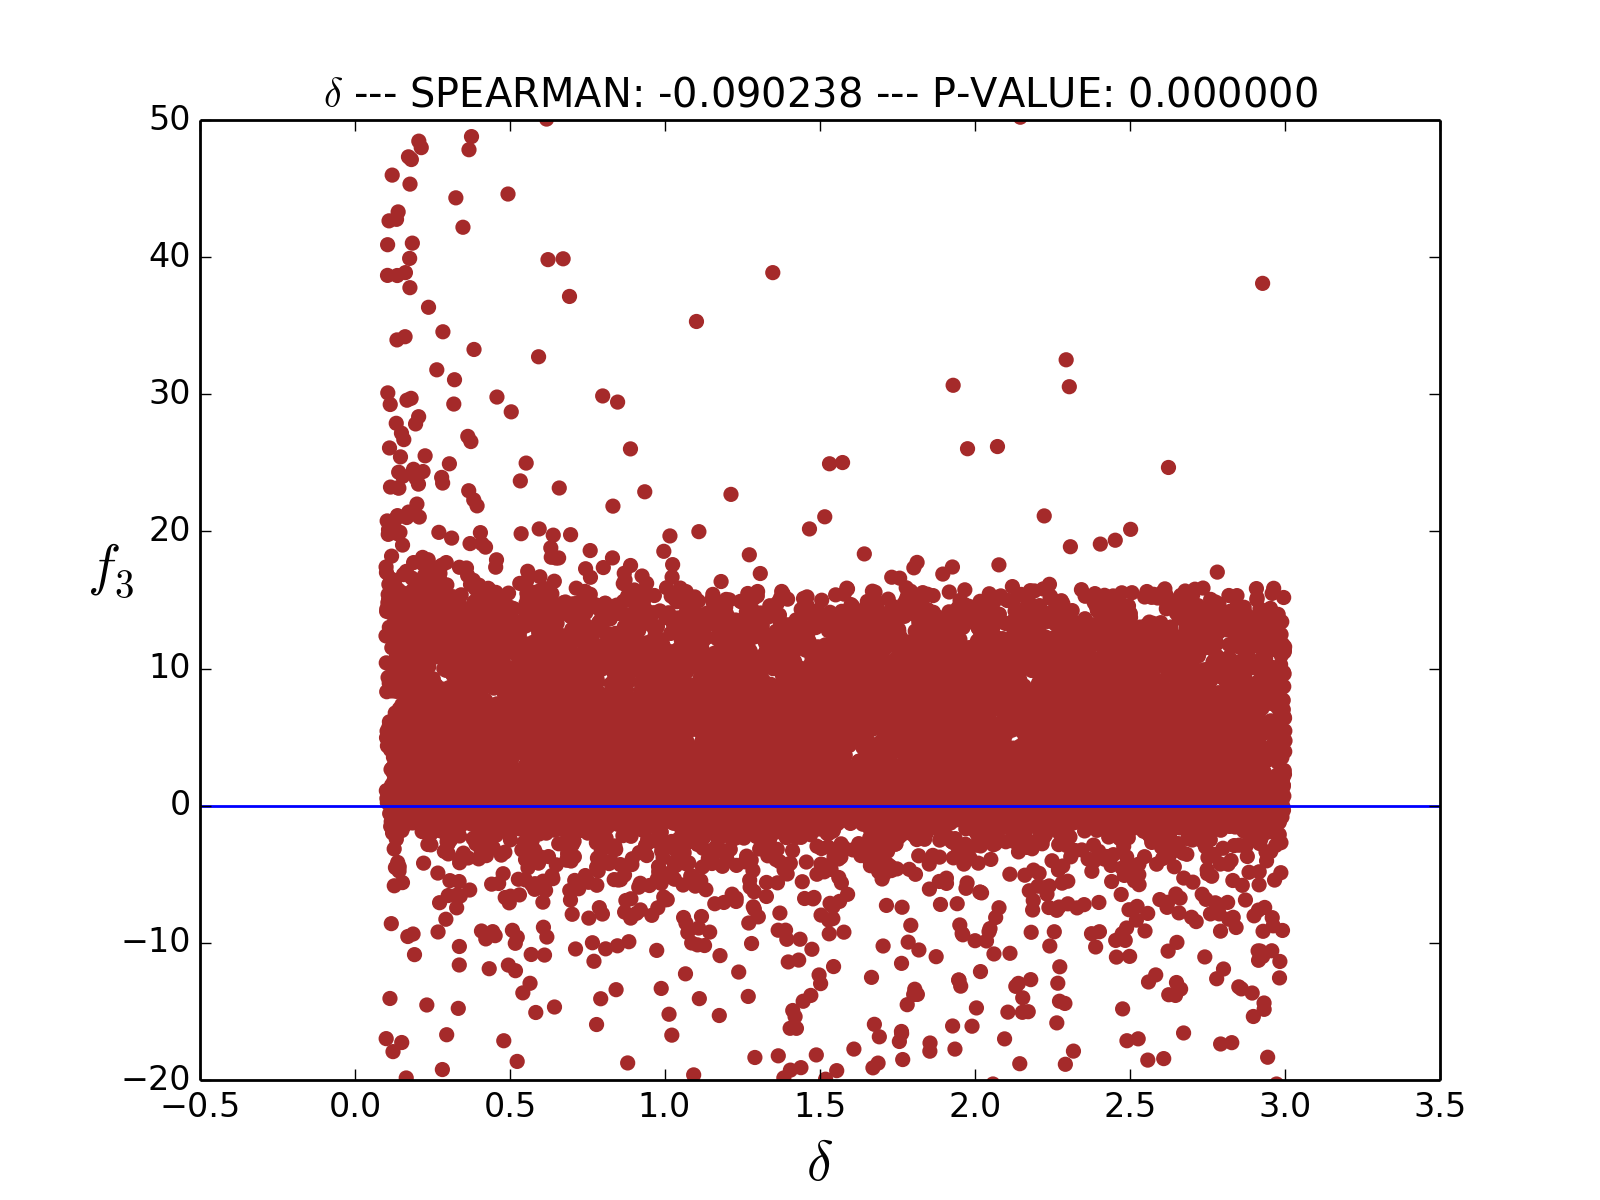
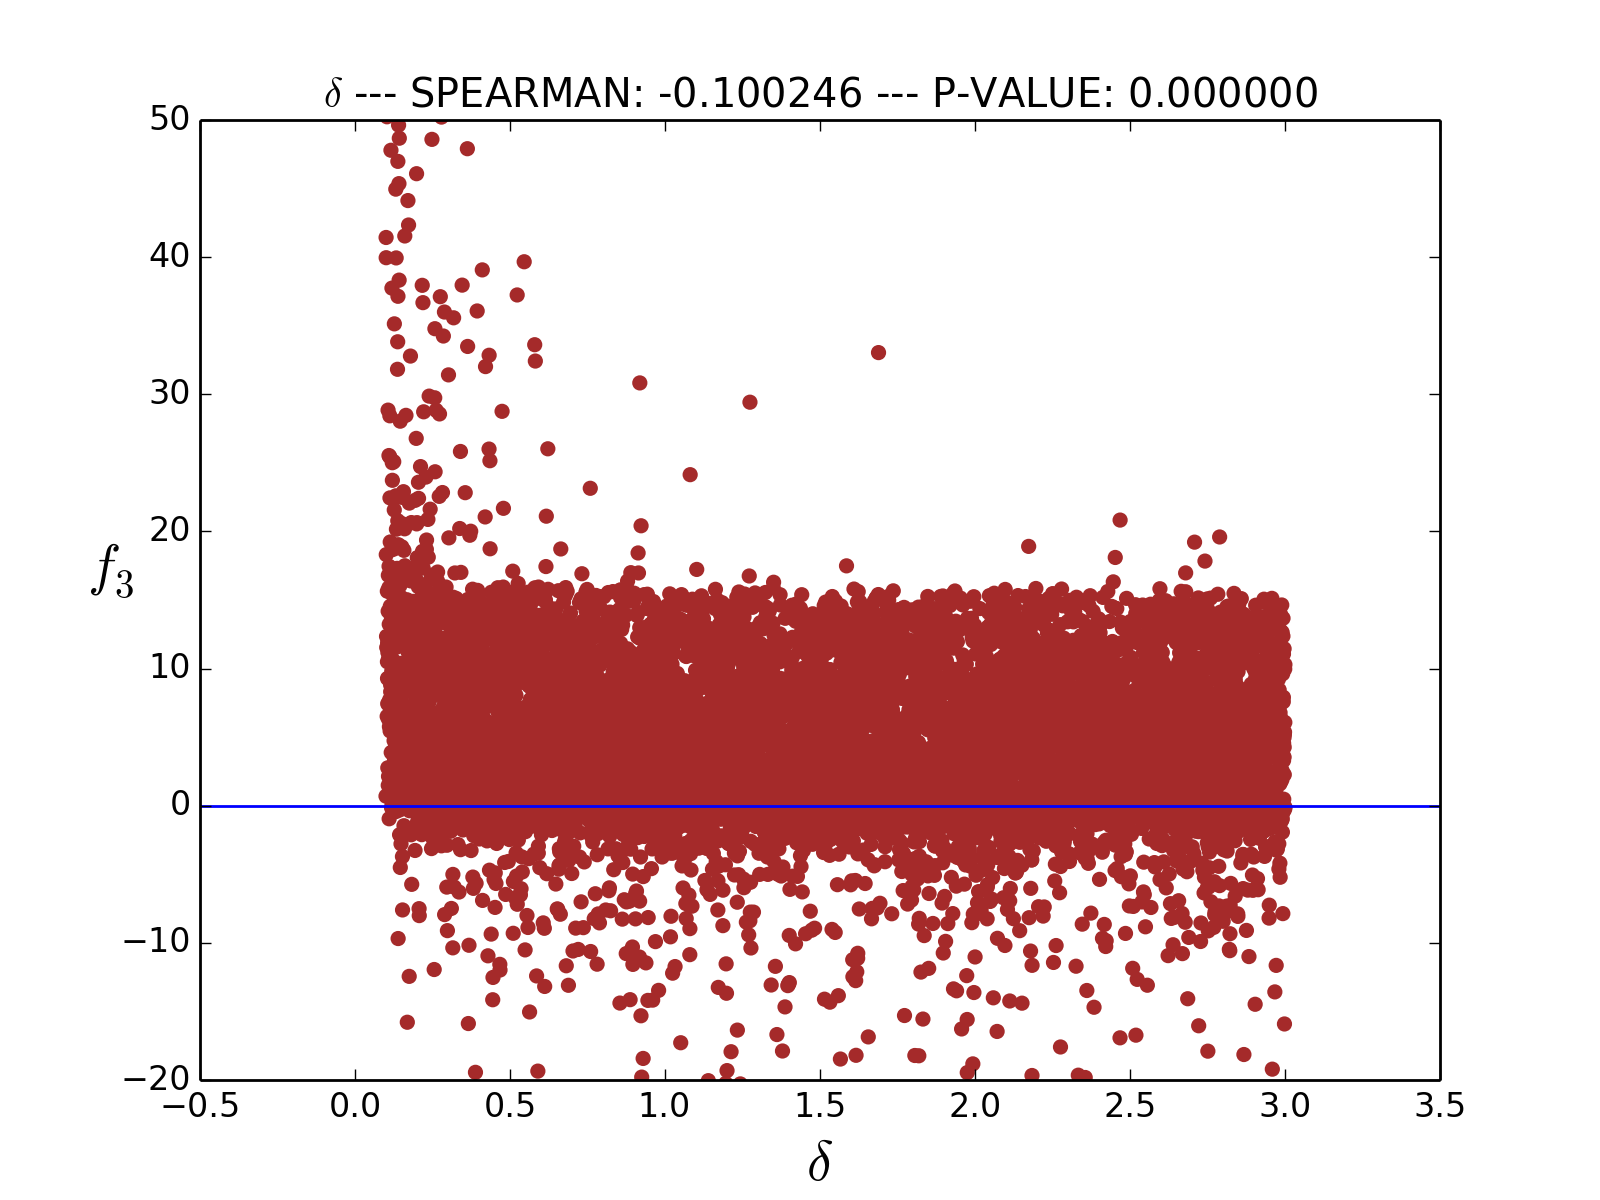
Added more contour plots, deleted old ones, reran the Hypercube Sampling for model 3 (to send them to the LaTeX folder)

diff --git a/contour_plots/variable_capacity_1x1_contour_plot.py b/contour_plots/variable_capacity_1x1_contour_plot.py
@@ -13,16 +13,29 @@ import argparse
 
 DATE_TIME_DIRECTORY_FORMAT = '%y%m%d_%H%M%S'
 LaTeX_VARIABLE_FORMAT = {
-    "sigma": "\\sigma",
-    "d": "d",
-    "beta": "\\beta",
-    "kappa": "\\kappa",
-    "e": "e",
-    "tau": "\\tau",
-    "alpha": "\\alpha",
-    "r": "r",
-    "delta": "\\delta",
-    "ratio": "\\sigma_G/\\beta_G"
+    "sigma": r"$\sigma$",
+    "d": r"$d$",
+    "beta": r"$\beta$",
+    "kappa": r"$\kappa$",
+    "e": r"$e$",
+    "tau": r"$\tau$",
+    "alpha": r"$\alpha$",
+    "r": r"$r$",
+    "delta": r"$\delta$",
+    "ratio": r"\sigma_G/\beta_G"
+}
+
+LaTeX_VERTICAL_FORMAT = {
+    "sigma": r"$\sigma$",
+    "d": r"$d$",
+    "beta": r"$\beta$",
+    "kappa": r"$\kappa$",
+    "e": r"$e$",
+    "tau": r"$\tau$",
+    "alpha": r"$\alpha$",
+    "r": r"$r$",
+    "delta": r"$\delta$",
+    "ratio": r"$\frac{\sigma_G}{\beta_G}$"
 }
 
 
@@ -70,15 +83,20 @@ def make_title(data):
     Title = ""
     for key, value in data.iteritems():
         if type(value) == float:
-            Title += r"$%s = %.3f$, " % (LaTeX_VARIABLE_FORMAT[str(key)], value)
+            Title += LaTeX_VERTICAL_FORMAT[str(key)] + "= %.3f" % value
     return Title
 
 
 def PARSE_ARGS():
     parser = argparse.ArgumentParser()
-    parser.add_argument("-c", dest="contour_line_delta", type=float, default=0.5)
-    parser.add_argument("-r", dest="contour_range", type=float, nargs=2, default=[-1., 1.])
-    parser.add_argument("-p", dest="print_parameters", action="store_true", default=False)
+    parser.add_argument("-c", dest="contour_line_delta", type=float, default=0.5, help="""
+Difference in contours when used without any flags or with the -r option.""")
+    parser.add_argument("-r", dest="contour_range", type=float, nargs=2, default=[-1., 1.], help="""
+Two arguments: first is the lowest contour, second is the greatest.""")
+    parser.add_argument("-p", dest="print_parameters", action="store_true", default=False, help="""
+Print the parameters in the title""")
+    parser.add_argument("-e", "--explicit-contours", dest="explicit", type=float, nargs="+", help="""
+Pass in explicit contours for the plot rather than defaulting to evenly-spaced.""")
     return parser.parse_args()
 
 
@@ -127,8 +145,8 @@ def main():
             os.system("mkdir %s" % direc)
 
         plt.figure()
-        plt.xlabel(r"$%s$" % str(LaTeX_VARIABLE_FORMAT[x_var]), fontsize=15, rotation=0)
-        plt.ylabel(r"$%s$" % str(LaTeX_VARIABLE_FORMAT[y_var]), fontsize=15, rotation=0)
+        plt.xlabel(LaTeX_VARIABLE_FORMAT[x_var], fontsize=15, rotation=0)
+        plt.ylabel(LaTeX_VERTICAL_FORMAT[y_var], fontsize=15, rotation=0)
         try:
             l = len(Z[type_])
             warning = False
@@ -136,12 +154,17 @@ def main():
             warning = True
             constant_value = float(Z[type_])
             Z[type_] = np.asarray([[float(Z[type_])]*mesh_refinement]*mesh_refinement)
-        CS = plt.contour(X, Y, Z[type_], np.arange(min(args.contour_range), max(args.contour_range), args.contour_line_delta), cmap=cm.RdBu)
+        if args.explicit:
+            CS = plt.contour(X, Y, Z[type_], args.explicit, colors="k")
+        else:
+            CS = plt.contour(X, Y, Z[type_], np.arange(min(args.contour_range), max(args.contour_range), args.contour_line_delta), colors="k")
         plt.clabel(CS, inline=1, fontsize=10)
+
+        plt.title(r"$f_3$" + ": Model 3 Coexistence Local Stability Criterion")
 
         if args.print_parameters:
             Title = make_title(data)
-            plt.title(Title, fontsize=15)
+            plt.title(Title, fontsize=12)
 
         file_name = "%s_%s_%s.png" % (x_var, y_var, date_time_stamp)
         file_path = os.path.join(plots, type_, "variable_capacity", file_name)

diff --git a/contour_plots/variable_growth_1x1_contour_plot.py b/contour_plots/variable_growth_1x1_contour_plot.py
@@ -25,6 +25,19 @@ LaTeX_VARIABLE_FORMAT = {
     "ratio": "\\sigma_G/\\beta_G"
 }
 
+LaTeX_VERTICAL_FORMAT = {
+    "sigma": "\\sigma",
+    "d": "d",
+    "beta": "\\beta",
+    "K": "K",
+    "e": "e",
+    "tau": "\\tau",
+    "alpha": "\\alpha",
+    "rho": "\\rho",
+    "gamma": "\\gamma",
+    "ratio": "\\frac{\\sigma_G}{\\beta_G}"
+}
+
 
 def make_stability_checks(data):
 
@@ -130,7 +143,7 @@ def main():
 
         plt.figure()
         plt.xlabel(r"$%s$" % str(LaTeX_VARIABLE_FORMAT[x_var]), fontsize=15, rotation=0)
-        plt.ylabel(r"$%s$" % str(LaTeX_VARIABLE_FORMAT[y_var]), fontsize=15, rotation=0)
+        plt.ylabel(r"$%s$" % str(LaTeX_VERTICAL_FORMAT[y_var]), fontsize=15, rotation=0)
         try:
             l = len(Z[type_])
             warning = False
@@ -144,6 +157,8 @@ def main():
             CS = plt.contour(X, Y, Z[type_], np.arange(min(args.contour_range), max(args.contour_range), args.contour_line_delta), colors="k")
         plt.clabel(CS, inline=1, fontsize=10)
 
+        plt.title(r"$f_2$" + ": Model 2 Coexistence Local Stability Criterion")
+
         if args.print_parameters:
             Title = make_title(data)
             plt.title(Title, fontsize=15)
@@ -152,7 +167,7 @@ def main():
         file_path = os.path.join(plots, type_, "variable_growth", file_name)
         save_location = os.path.join(direc, file_name)
         try:
-            plt.savefig(save_location, format="png")
+            plt.savefig(save_location, format="png", dpi=200)
             print "\nFile saved: %s" % file_path
             if warning:
                 print "Warning: %s function is constant with respect to %s and %s" % (type_, x_var, y_var)

diff --git a/Hypercube_Sampling/3.py b/Hypercube_Sampling/3.py
@@ -88,7 +88,7 @@ def main():
         "alpha": (0.01, 1),
         "tau": (0.01, 3),
         "e": (0.01, 0.5),
-        "kappa": (1, 500)
+        "kappa": (50, 500)
     }
 
     parameters = len(parameter_list)
@@ -137,7 +137,15 @@ def main():
     print "Statistical Values Computed"
 
     directory = "Figures_Model_3"
-    os.system("mkdir %s" % directory)
+    if os.path.isdir(directory):
+        overwrite = str(raw_input("overwrite? [y/n] --> "))
+        if overwrite.lower() == "y" or overwrite.lower() == "yes":
+            os.system("rm -r %s" % directory)
+            os.system("mkdir %s" % directory)
+        else:
+            return(0)
+    else:
+        os.system("mkdir %s" % directory)
     for key, values in hyper_cube_sample.iteritems():
         plt.figure()
         plt.scatter(values, function_values, color="brown")
